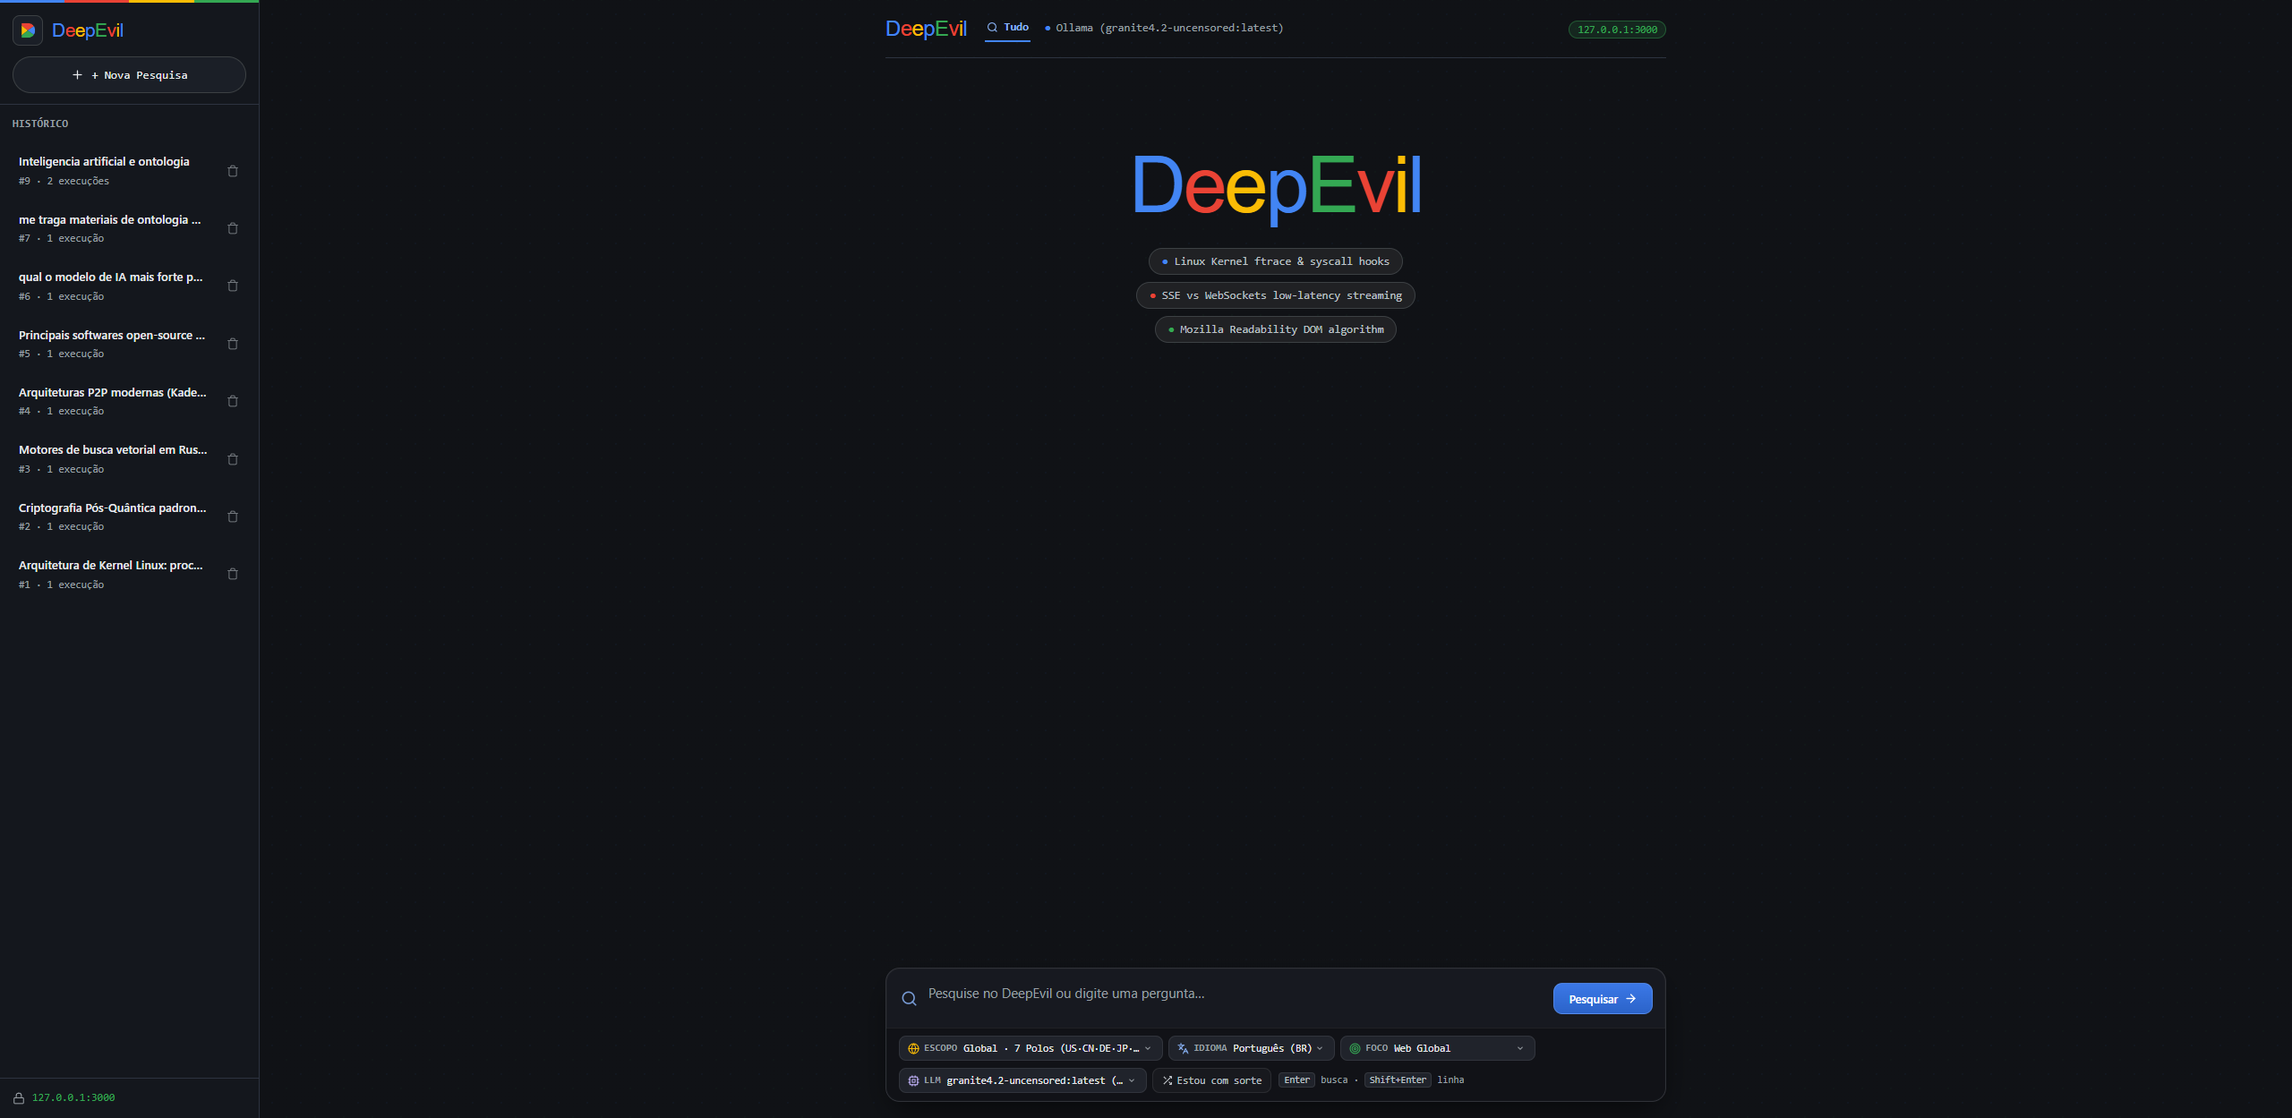
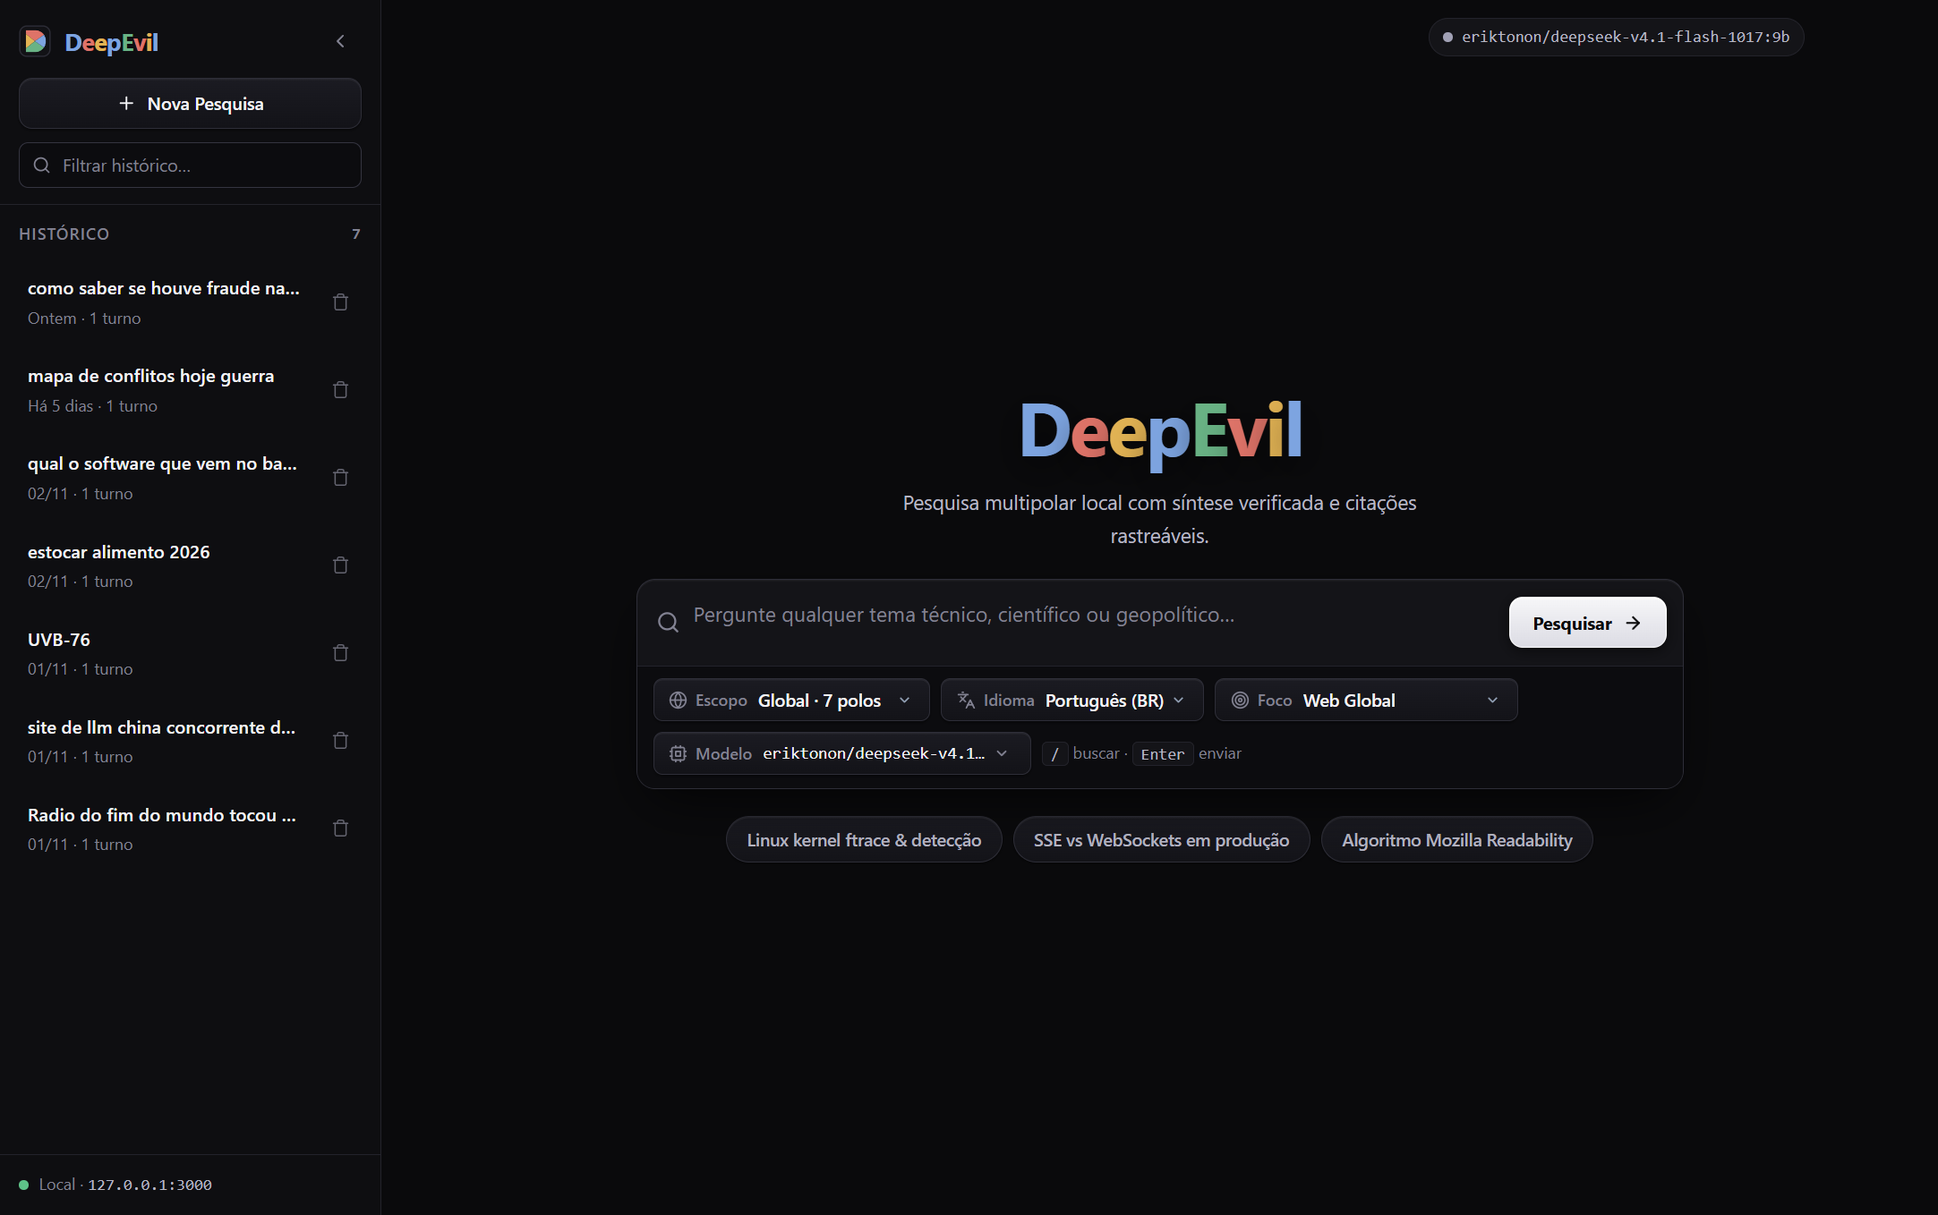
docs(v1.3.0): update README, screenshots and version with Graphite Sovereign Dark palette & latency upgrades

diff --git a/README.md b/README.md
@@ -1,39 +1,77 @@
-# DeepEvil — Worldwide Research & Local AI Answer Engine
+# DeepEvil v1.3.0 — Worldwide Research & Local AI Answer Engine (`Graphite & Obsidian Sovereign Dark`)
+
+[![Version: v1.3.0](https://img.shields.io/badge/Version-v1.3.0-141418?style=for-the-badge&labelColor=0a0a0c&color=c99e56)](https://github.com/eriktonon/deepevil)
+[![Theme: Graphite Sovereign Dark](https://img.shields.io/badge/Theme-Graphite_Sovereign_Dark_(WCAG_AAA)-1b1b21?style=for-the-badge&labelColor=0a0a0c&color=7da4e0)](./public/styles.css)
+[![Tests: 43/43 Passing](https://img.shields.io/badge/Tests-43%2F43_Passing_(Golden_%2B_AppSec)-141418?style=for-the-badge&labelColor=0a0a0c&color=69b385)](./tests)
+[![License: Apache-2.0](https://img.shields.io/badge/License-Apache--2.0-141418?style=for-the-badge&labelColor=0a0a0c&color=de7368)](./LICENSE)
 
 <p align="left">
   <strong>Architected by Erik Tonon</strong> · <strong>EdgeSearch &amp; PE-AGENTS-IBM Ecosystem</strong><br>
-  <em>Worldwide Research Federation · 100% Local AI via Ollama (`eriktonon/granite4.2-uncensored` 32K) · Zero Telemetry · SQLite WAL + Optional Qdrant Vector DB</em>
+  <em>7-Pole Worldwide Research Federation · 100% Local AI via Ollama (`eriktonon/granite4.2-uncensored` 32K &amp; 81+ Models) · Zero Telemetry · SQLite WAL + Qdrant Vector DB (`1024d` `bge-m3`)</em>
 </p>
 
 ---
 
 ## O que é o DeepEvil?
 
-O **DeepEvil** é um mecanismo de pesquisa técnica, científica e de engenharia (*Worldwide AI Answer Engine*) que roda **100% localmente** na sua máquina (`http://localhost:3000`), sem mensalidades de API e sem telemetria externa.
+O **DeepEvil (`v1.3.0`)** é um mecanismo de pesquisa técnica, científica, geopolítica e de engenharia (*Worldwide AI Answer Engine*) que roda **100% localmente** na sua máquina (`http://localhost:3000`), sem mensalidades de API e sem telemetria externa.
 
-Combinando uma federação global de busca sem trava regional (**DuckDuckGo Worldwide**, **Wikipedia EN**, **OpenAlex 250M+ papers**, **ArXiv**, **GitHub API**, **HackerNews** e **SearXNG**) com o modelo local **`eriktonon/granite4.2-uncensored`** (janela de **32.768 tokens** no **Ollama**), o DeepEvil lê o conteúdo real das páginas via `@mozilla/readability` e gera respostas técnicas densas, em tempo real via **Server-Sent Events (SSE)**, com citações verificadas `[1][2]` e cartões de preview interativos.
-
-### Destaques Principais
-- **Federação Global em 7 Polos Mundiais (`🇺🇸 US · 🇨🇳 CN · 🇩🇪 DE · 🇯🇵 JP · 🇰🇷 KR · 🇷🇺 RU · 🇧🇷 BR`)**: Rompe a bolha geográfica buscando simultaneamente nos principais centros tecnológicos e acadêmicos do mundo — **EUA** (OpenAlex US, ArXiv, HackerNews, Wikipedia EN), **China** (OpenAlex CN, Wikipedia ZH, GitHub Global), **Alemanha** (Max Planck, Fraunhofer, TUM, DFKI, OpenAlex DE, Wikipedia DE), **Japão** (RIKEN, UTokyo, NII, OpenAlex JP, Wikipedia JA), **Coreia do Sul** (KAIST, SNU, ETRI, OpenAlex KR, Wikipedia KO), **Rússia** (Habr Engineering, OpenAlex RU, Wikipedia RU) e **Brasil** (USP, UNICAMP, PUC-Rio, OpenAlex BR, Wikipedia PT).
-- **Tradução Automática de Headlines (`localizeSourceHeadlines`) & Seletor de Idioma (`searchLang`)**: Títulos de artigos e papers internacionais (em mandarim, japonês, coreano, alemão, russo ou inglês) têm o assunto traduzido automaticamente para o idioma selecionado na busca (`Português`, `English`, `Español`, `Deutsch`, `日本語`, `한국어`, `中文`, `Русский`), preservando a flag do país (`[🇩🇪 DE]`, `[🇯🇵 JP]`, `[🇰🇷 KR]`) e o nome original de repositórios (`owner/repo`).
-- **2-Tier Obsidian Command Deck UI (`/taste-design-direction`)**: Cápsula de comando em 2 andares com 100% da largura dedicada ao input de pesquisa no Tier 1 e seletores táticos independentes no Tier 2 (`ESCOPO`, `IDIOMA`, `FOCO`, `LLM`).
-- **Filtro de Escopo Geopolítico (`searchScope`)**: Alterne entre `Global · 7 Polos (US·CN·DE·JP·KR·RU·BR)`, `Só Externo (US·CN·DE·JP·KR·RU)` ou `Só Brasil (PT-BR)`.
-- **Extração Direta de Repositórios GitHub**: Detecta URLs ou pedidos de código open-source, consulta a API do GitHub ordenada por estrelas (`sort=stars`) e extrai o `README.md` completo via `raw.githubusercontent.com`.
-- **5 Modos de Foco (`Focus Modes`)**: `Web Global`, `SecOps / CVE`, `Code / Docs`, `Academic` e `Híbrido (Local + Web)`.
-- **Motor LLM Local de 32K (`eriktonon/granite4.2-uncensored`)**: Baseado no IBM Granite 4.2 8B com *Orthogonal Refusal Abliteration* + *SecOps LoRA*, configurado com `num_ctx=32768`, `repeat_penalty=1.12` e isolamento estrito de citações entre turnos.
-- **Seletor Multi-LLM Ao Vivo**: Troque de modelo a qualquer momento direto na interface (qualquer modelo instalado no seu Ollama local, ou opcionalmente Claude / OpenAI), além de botão **Regerar** (`0ms` de nova busca web) e **Traduzir** instantâneo (`PT`, `EN`, `ES`, `DE`, `JA`, `KO`, `ZH`, `RU`, `FR`).
+Combinando uma **federação multipolar de 7 polos globais** (**DuckDuckGo Worldwide**, **Google News RSS**, **Wikipedia Multi-Idioma com deduplicação Cross-Lingual QID**, **OpenAlex 250M+ papers**, **ArXiv**, **GitHub API**, **HackerNews**, **Yandex + CyberLeninka Runet 3-Tier** e **SearXNG**) com modelos locais no **Ollama** (`eriktonon/granite4.2-uncensored`, `eriktonon/deepseek-v4.1-flash-1017:9b`, `eriktonon/gemma4-uncensored:12b`, `eriktonon/qwen3.8-uncensored:9b`), o DeepEvil extrai o conteúdo real das páginas via `@mozilla/readability` com *Early-Cutoff* rápido e gera sínteses verificadas em tempo real via **Server-Sent Events (SSE)** com citações `[1][2]` auditadas deterministicamente.
 
 ---
 
-## Interface & Demonstração Visual
+## Novidades da Versão `v1.3.0` (`Graphite & Obsidian Sovereign Dark`)
 
-### 1. Tela Inicial — 2-Tier Obsidian Command Deck (`ESCOPO`, `IDIOMA`, `FOCO`, `LLM`)
+### 1. Novo Design System & Paleta de Cores (`Graphite & Obsidian Sovereign Dark` · WCAG 2.1 AAA)
+A versão `v1.3.0` substitui os antigos tons azul-marinho por uma direção de arte sóbria inspirada em hardware usinado (*Linear / Raycast / Vercel*) combinada com a identidade **Google-Dark Mineral**:
+
+| Camada / Token CSS | Cor Hexadecimal | Contraste / Função Visual |
+| :--- | :---: | :--- |
+| **Canvas Principal (`--bg-canvas`)** | `#0A0A0C` | Carvão obsidiana puro (*Zero Blue Cast*) para imersão em Dark Mode |
+| **Sidebar (`--bg-sidebar`) & Inset (`--bg-inset`)** | `#0E0E11` / `#0C0C0F` | Grafite fosco recessivo para histórico, blocos de código e deck tático |
+| **Cards & Composer (`--bg-surface` / `--bg-elevated`)** | `#141418` / `#1B1B21` | Superfícies em degraus tonais neutros com bordas estruturais `#23232B` e `#2E2E38` |
+| **Wordmark & Monograma `"D"` (`--g-steel`, `--g-terracotta`, `--g-amber`, `--g-sage`)** | `#7DA4E0` · `#DE7368` · `#E2B354` · `#69B385` | **Google-Dark Mineral Sóbrio**: preserva a ironia letra a letra (`DeepEvil`) e os 4 quadrantes do `"D"` em tons minerais dessaturados com micro-elevação no hover (`translateY(-2px)`) |
+| **Botão Primário (`Pesquisar` / `Follow-up`)** | `#F6F6F8 -> #DCDCE4` (Tinta `#0A0A0C`) | **Platina Escovada de Alto Contraste** com bisel especular superior (`inset 0 1px 0 #FFFFFF`), seta animada (`translateX(2px)`) e resposta física `:active { transform: scale(0.97) }` |
+| **Botões & Pílulas Táticas (`--btn-surface`)** | `#1B1B22 -> #131318` (Borda `#2E2E38`) | **Keycaps Usinados em Grafite** com iluminação interna `inset 0 1px 0 rgba(255,255,255,0.06)` e curva `--ease-out: cubic-bezier(0.23, 1, 0.32, 1)` |
+| **Acento Editorial & Citações (`--accent-cobalt` / `--accent-cobalt-text`)** | `#C99E56` / `#E2C07D` | **Bronze & Âmbar-Champagne (`8.9:1` AAA)** para badges de fontes `[1]`, marcadores de lista e indicadores ativos |
+| **Tipografia de Leitura (`--text-primary` / `--text-secondary` / `--text-muted`)** | `#F5F5F7` (`16.5:1`) · `#D0D0DC` (`11.6:1`) · `#9EA0B0` (`6.8:1`) | **Conformidade WCAG 2.1 AAA**: prosa em `16.25px` (`line-height: 1.8`, largura ideal `72ch`) e foco por teclado *Dual-Ring* |
+
+### 2. Redução de Latência (`-4.5s a -8s` no TTFT) & UX Progressiva de Busca/Síntese
+- **Busca Fase 0 & Tradução Multi-Polo em Paralelo (`Promise.all`)**: a tradução de queries para os 7 polos e a coleta web orgânica (`DuckDuckGo` + `Google News RSS`) rodam simultaneamente, economizando `~1.5s` já na largada.
+- **Early-Cutoff Rápido (`gracePeriodMs: 650ms`) & Exibição Instantânea das Fontes (`0ms`)**: assim que as primeiras páginas rápidas são extraídas pelo Readability, a faixa superior **`Fontes verificadas`** é transmitida imediatamente via SSE e o prefill da LLM começa sem esperar pela tradução secundária das headlines (`localizeSourceHeadlines` roda em background paralelo).
+- **Calibração Inteligente de KV Cache em VRAM**: mantém `num_ctx: 32768` para arquiteturas híbridas Mamba/SSM (`granite4.2`, `nemotron`, `lfm`, `kimi-linear`) e calibra `12288` tokens em produção para modelos densos em GPUs de 16 GB, eliminando pausas de realocação de memória antes do 1º token.
+- **Barra de Progresso Animada por Fase (`role="progressbar"`) & Esqueleto Editorial**: feedback visual contínuo (`28% Buscando -> 62% Extraindo -> 88% Sintetizando -> 100% Concluído`) com subtítulos contextuais vivos e cronômetro em `tabular-nums`.
+
+---
+
+## Destaques Arquiteturais
+
+- **Federação Global em 7 Polos Mundiais (`🇺🇸 US · 🇨🇳 CN · 🇩🇪 DE · 🇯🇵 JP · 🇰🇷 KR · 🇷🇺 RU · 🇧🇷 BR`)**:
+  - **EUA (`US`)**: OpenAlex US, ArXiv, HackerNews, Wikipedia EN, Bing Global.
+  - **China (`CN`)**: OpenAlex CN, Wikipedia ZH, GitHub Global (incluindo mapeamento de entidades como ModelScope /魔搭社区).
+  - **Alemanha (`DE`)**: Max Planck, Fraunhofer, TUM, DFKI, OpenAlex DE, Wikipedia DE.
+  - **Japão (`JP`)**: RIKEN, UTokyo, NII, OpenAlex JP, Wikipedia JA.
+  - **Coreia do Sul (`KR`)**: KAIST, SNU, ETRI, OpenAlex KR, Wikipedia KO.
+  - **Rússia (`RU`)**: Motor 3-Tier **Yandex Web + CyberLeninka Runet JSON API + Habr Engineering + Wikipedia RU** (com suporte a entidades técnicas e estações de ondas curtas como `УВБ-76 / UVB-76`, `The Pip`, `Squeaky Wheel`).
+  - **Brasil (`BR`)**: USP, UNICAMP, PUC-Rio, OpenAlex BR, Wikipedia PT e cobertura nacional.
+- **2-Tier Command Deck UI (`/taste-design-direction` & `/emil-design-engineering`)**:
+  - **Tier 1**: Campo de pesquisa auto-expansível com botão primário em platina escovada (`Pesquisar ->` / `Follow-up ->`).
+  - **Tier 2**: Pílulas táticas independentes (`Escopo`, `Idioma`, `Foco`) + **Combobox pesquisável** para filtrar instantaneamente mais de 80 modelos Ollama instalados.
+- **Roteamento por Intenção (`Retrieval-First`) & Verificação de Citações**:
+  - Classifica automaticamente a pergunta em `factual_short` (150–400 palavras), `howto_tech` (300–700 palavras), `breaking_news` (200–500 palavras) ou `deep_research` (600–1200 palavras).
+  - Audita a fidelidade textual de cada citação `[n]` contra o trecho extraído (`verifyCitationGrounding`) antes de indexar na coleção `deepevil_conversations_v2` (`1024d` `bge-m3`) do Qdrant.
+
+---
+
+## Interface & Demonstração Visual (`v1.3.0` — `Graphite & Obsidian Sovereign Dark`)
+
+### 1. Tela Inicial — Graphite Sovereign Dark, Wordmark Mineral & Botões Usinados
 ![DeepEvil Home Screen](./public/screenshots/deepevil-home.png)
 
-### 2. Pesquisa Global 7 Polos (🇺🇸 US · 🇨🇳 CN · 🇩🇪 DE · 🇯🇵 JP · 🇰🇷 KR · 🇷🇺 RU · 🇧🇷 BR) com Headlines Traduzidas
+### 2. Visão de Pesquisa & Síntese — Fontes Verificadas com Badges Âmbar-Champagne & Leitura `72ch` AAA
 ![DeepEvil 7-Pole Global Research](./public/screenshots/deepevil-p2p-research.png)
 
-### 3. Descoberta Direta de Repositórios Open-Source no GitHub (Modelagem 3D & CAD)
+### 3. Descoberta Direta de Repositórios Open-Source no GitHub
 ![DeepEvil GitHub Repositories Discovery](./public/screenshots/deepevil-3d-github.png)
 
 ---
@@ -45,40 +83,29 @@ Combinando uma federação global de busca sem trava regional (**DuckDuckGo Worl
 - **Ollama** instalado ([ollama.com/download](https://ollama.com/download))
 - **Git** instalado
 
----
-
-### Passo 1: Instalar o Ollama e Baixar o Modelo `granite4.2-uncensored` (32K)
-
-Com o Ollama instalado e rodando na sua máquina, abra o terminal (PowerShell, CMD, Linux ou macOS) e baixe o modelo oficial do DeepEvil publicado no Ollama Hub:
+### Passo 1: Baixar o Modelo Local no Ollama
 
 ```bash
-# 1. Baixe o modelo principal de 32K tokens (5.7 GB)
+# 1. Modelo principal rápido de 32K tokens
 ollama pull eriktonon/granite4.2-uncensored:latest
 
-# 2. (Opcional) Baixe o modelo de embeddings semânticos bge-m3 caso use Qdrant Vector DB
+# 2. (Opcional) Outros modelos recomendados da suíte eriktonon
+ollama pull eriktonon/deepseek-v4.1-flash-1017:9b
+ollama pull eriktonon/gemma4-uncensored:12b
+
+# 3. (Opcional) Embeddings semânticos 1024d para memória híbrida no Qdrant
 ollama pull bge-m3:latest
 ```
-
-> **Dica:** Você também pode usar qualquer outro modelo que já tenha no seu Ollama (`qwen2.5-coder:14b`, `llama3.1`, `deepseek-r1`, `mistral-nemo`, etc.) selecionando-o diretamente no menu suspenso da interface do DeepEvil.
-
----
 
 ### Passo 2: Clonar o Repositório e Instalar as Dependências
 
 ```bash
-# Clone o repositório oficial
 git clone https://github.com/eriktonon/deepevil.git
 cd deepevil
-
-# Instale as dependências Node.js
 npm install
 ```
 
----
-
 ### Passo 3: Configurar o `.env` (Opcional — Funciona Zero-Config!)
-
-O DeepEvil já funciona **sem precisar criar chaves de API**. Se quiser personalizar portas ou modelos, copie o arquivo de exemplo:
 
 ```bash
 # Linux / macOS
@@ -94,7 +121,6 @@ Configuração padrão no `.env`:
 PORT=3000
 HOST=127.0.0.1
 
-# Busca Global sem chave (keyless) ou SearXNG local (searxng)
 SEARCH_PROVIDER=keyless
 OLLAMA_BASE_URL=http://127.0.0.1:11434
 OLLAMA_MODEL=eriktonon/granite4.2-uncensored:latest
@@ -102,45 +128,32 @@ OLLAMA_NUM_CTX=32768
 MAX_CHARS_PER_SOURCE=5500
 ```
 
----
-
-### Passo 4: Iniciar o DeepEvil
+### Passo 4: Validar e Iniciar o DeepEvil
 
 ```bash
-# Rodar a suíte de testes determinísticos (14 testes E2E)
+# Rodar a suíte completa (43 testes: Golden Eval, Multipolar Search, UX/WCAG & AppSec SSRF/CSRF)
 npm test
 
-# Iniciar o servidor
+# Iniciar o servidor em http://127.0.0.1:3000
 npm start
 ```
 
-Abra no navegador:
-👉 **`http://localhost:3000`**
+Abra no navegador: **`http://localhost:3000`**
 
 ---
 
-## Executando via Docker Compose (Opcional com SearXNG Integrado)
-
-Se preferir subir o **DeepEvil** junto com um container **SearXNG** dedicado:
-
-```bash
-docker compose up -d --build
-```
-
----
-
-## Arquitetura do Sistema
+## Arquitetura do Sistema (`v1.3.0`)
 
 ```mermaid
 flowchart LR
-    UI["Interface DeepEvil\n(htmx + SSE + Focus Modes)"] -->|"POST /ask"| SRV["Node.js + Express\n(127.0.0.1:3000)"]
+    UI["Interface DeepEvil v1.3.0\n(Graphite Sovereign Dark · htmx + SSE)"] -->|"POST /ask"| SRV["Node.js + Express\n(127.0.0.1:3000)"]
     UI <-->|"GET /api/models"| OLLAMA_TAGS["Ollama Local API\n(127.0.0.1:11434)"]
-    SRV -->|"Worldwide Federation"| SEARCH["DuckDuckGo Global / SearXNG /\nWikipedia EN / OpenAlex / ArXiv / GitHub"]
-    SEARCH -->|"Top 6 URLs"| EXT["Extrator @mozilla/readability\n+ GitHub Raw README (5500 chars/fonte)"]
-    EXT -->|"Trechos Numerados [1]..[6]"| LLM["Streaming LLM (32K Context)\neriktonon/granite4.2-uncensored"]
-    LLM -->|"Frame-Batched SSE + Citações [1][2]"| UI
+    SRV -->|"Parallel Phase-0 + 7-Pole Federation"| SEARCH["DuckDuckGo / Google News RSS / Wikipedia QID /\nOpenAlex / ArXiv / GitHub / Yandex+CyberLeninka"]
+    SEARCH -->|"Top Candidate URLs"| EXT["Extrator @mozilla/readability\n(Early-Cutoff 650ms + Query-Focused Passages)"]
+    EXT -->|"0ms Source Cards + Trechos [1]..[N]"| LLM["Streaming LLM (Ollama / Claude / OpenAI)\n+ Non-Blocking Headline Localization"]
+    LLM -->|"Frame-Batched SSE (~24fps) + Citações [1][2]"| UI
     SRV <-->|"Persistência Local"| SQLITE[("SQLite WAL\n(better-sqlite3)")]
-    SRV -.->|"Opcional: Híbrido 384d"| QDRANT[("Qdrant Vector DB\n(deepevil_conversations)")]
+    SRV -.->|"Memória Híbrida 1024d (bge-m3)"| QDRANT[("Qdrant Vector DB\n(deepevil_conversations_v2)")]
 ```
 
 ---
@@ -149,20 +162,20 @@ flowchart LR
 
 | Método | Rota | Descrição |
 | :--- | :--- | :--- |
-| `GET` | `/` | Interface principal do **DeepEvil** com seletor ao vivo de modelos Ollama e Focus Modes |
-| `POST` | `/ask` | Inicia um novo turno de pesquisa global ou *follow-up* contextual |
-| `GET` | `/stream/:turnId` | Stream SSE em tempo real (`status`, `sources`, `answer`, `done`) com Frame Batching (~24fps) |
+| `GET` | `/` | Interface principal do **DeepEvil (`v1.3.0`)** com Combobox de modelos Ollama e Focus Modes |
+| `POST` | `/ask` | Inicia um novo turno de pesquisa multipolar ou *follow-up* mantendo o contexto |
+| `GET` | `/stream/:turnId` | Stream SSE em tempo real (`status`, `sources`, `answer`, `done`) com barra de progresso por fase e Frame Batching |
+| `POST` | `/api/search` | Contrato JSON canônico de busca multipolar (consumido pelo `crates/deepevil-sdk` e integrações locais) |
 | `POST` | `/turns/:turnId/rewrite` | Regera a resposta com outro modelo LLM reutilizando as fontes já extraídas (`0ms` de busca web) |
 | `POST` | `/turns/:turnId/stop` | Interrompe imediatamente a geração de tokens em andamento |
-| `GET` | `/turns/:turnId/translate/stream` | Tradução instantânea via SSE (`pt-BR`, `en`, `es`, `fr`, `de`) preservando citações `[1][2]` |
-| `GET` | `/turns/:turnId/export.md` | Exporta o relatório técnico completo da pesquisa com fontes em Markdown (`.md`) |
-| `GET` | `/api/models` | Lista dinamicamente todos os modelos disponíveis no Ollama local |
-| `GET` | `/health` | Healthcheck consolidado do servidor, LLM e banco de dados |
+| `GET` | `/turns/:turnId/translate/stream` | Tradução instantânea via SSE (`pt-BR`, `en`, `es`, `fr`, `de`, `ja`, `ko`, `zh`, `ru`) preservando citações `[1][2]` |
+| `GET` | `/turns/:turnId/export.md` | Exporta o dossiê completo da pesquisa com fontes em Markdown (`.md`) |
+| `GET` | `/api/models` | Lista dinamicamente todos os modelos disponíveis no Ollama local (com filtro de modelos de embedding) |
+| `GET` | `/health` | Healthcheck BTM real com sondas ativas de SQLite (`SELECT 1`), Ollama (`/api/version`) e Qdrant |
 
 ---
 
 ## Licença & Autor
 
-Desenvolvido por **Erik Tonon**  
-Licenciado sob **Apache License 2.0** — veja o arquivo [LICENSE](LICENSE).  
-Modelo Oficial no Ollama Hub: [`https://ollama.com/eriktonon/granite4.2-uncensored`](https://ollama.com/eriktonon/granite4.2-uncensored)
+Desenvolvido por **Erik Tonon** ([`@eriktonon`](https://github.com/eriktonon) · [`ollama.com/eriktonon`](https://ollama.com/eriktonon))  
+Licenciado sob **Apache License 2.0** — veja o arquivo [LICENSE](LICENSE).
